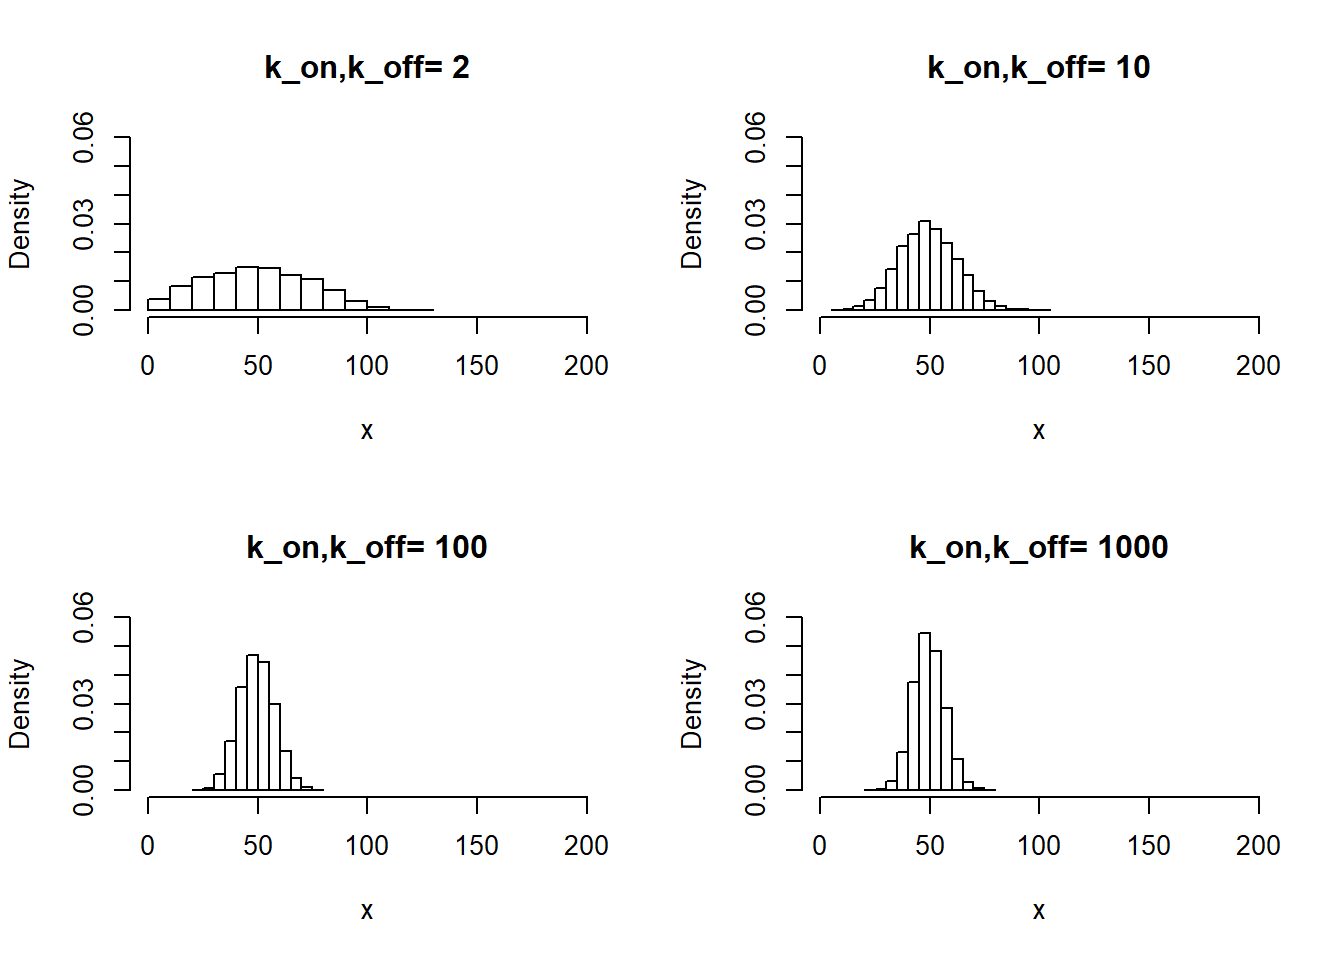
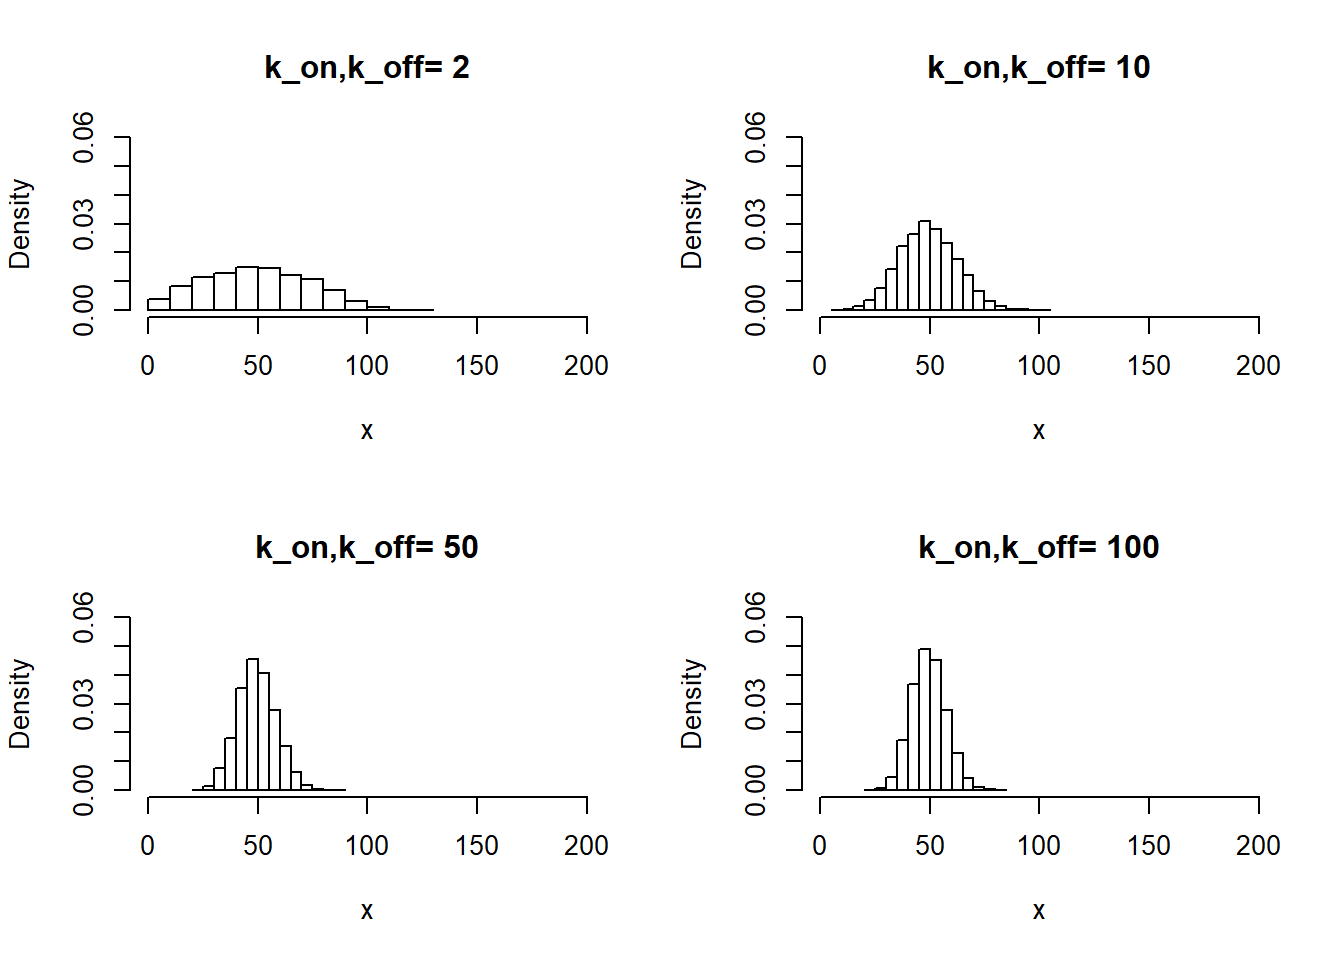
Build site.

Changed region(s): [[0.6562, 0.5312, 0.875, 0.5938], [0.1875, 0.5625, 0.375, 0.5938]]

diff --git a/docs/Data_simulation.html b/docs/Data_simulation.html
@@ -435,10 +435,10 @@ This reproducible <a href="http://rmarkdown.rstudio.com">R Markdown</a> analysis
 <div class="panel panel-default">
 <div class="panel-heading">
 <p class="panel-title">
-<a data-toggle="collapse" data-parent="#workflowr-checks" href="#strongRepositoryversionstrongahrefhttpsgithubcomMargareth2407ThesissingleRNAtree5526ae57a76359f2af97bfea5856ef809a86fb5ctargetblank5526ae5a"> <span class="glyphicon glyphicon-ok text-success" aria-hidden="true"></span> <strong>Repository version:</strong> <a href="https://github.com/Margareth2407/Thesis_single_RNA/tree/5526ae57a76359f2af97bfea5856ef809a86fb5c" target="_blank">5526ae5</a> </a>
+<a data-toggle="collapse" data-parent="#workflowr-checks" href="#strongRepositoryversionstrongahrefhttpsgithubcomMargareth2407ThesissingleRNAtree68357ed4d265299bb376a1fd2c1cc87298511c2etargetblank68357eda"> <span class="glyphicon glyphicon-ok text-success" aria-hidden="true"></span> <strong>Repository version:</strong> <a href="https://github.com/Margareth2407/Thesis_single_RNA/tree/68357ed4d265299bb376a1fd2c1cc87298511c2e" target="_blank">68357ed</a> </a>
 </p>
 </div>
[2 lines of base64/hex data omitted]
 <div class="panel-body">
 <p>
 Great! You are using Git for version control. Tracking code development and connecting the code version to the results is critical for reproducibility. The version displayed above was the version of the Git repository at the time these results were generated. <br><br> Note that you need to be careful to ensure that all relevant files for the analysis have been committed to Git prior to generating the results (you can use <code>wflow_publish</code> or <code>wflow_git_commit</code>). workflowr only checks the R Markdown file, but you know if there are other scripts or data files that it depends on. Below is the status of the Git repository when the results were generated:
@@ -499,7 +499,7 @@ for (i in k){
 <div id="ii-large-k_on-and-k_off-lead-to-poisson-or-negative-binomial-distribution" class="section level2">
 <h2>II) Large <span class="math inline">\(k_{on}\)</span> and <span class="math inline">\(k_{off}\)</span> lead to Poisson or negative binomial distribution:</h2>
 <pre class="r"><code>par(mfrow=c(2,2))
-k=c(2,10,100,1000)
+k=c(2,10,50,100)
 for (i in k){
   x=generate_one_gene(i,i,100,n=10000)
   name=paste(&#39;k_on,k_off=&#39;,i)
